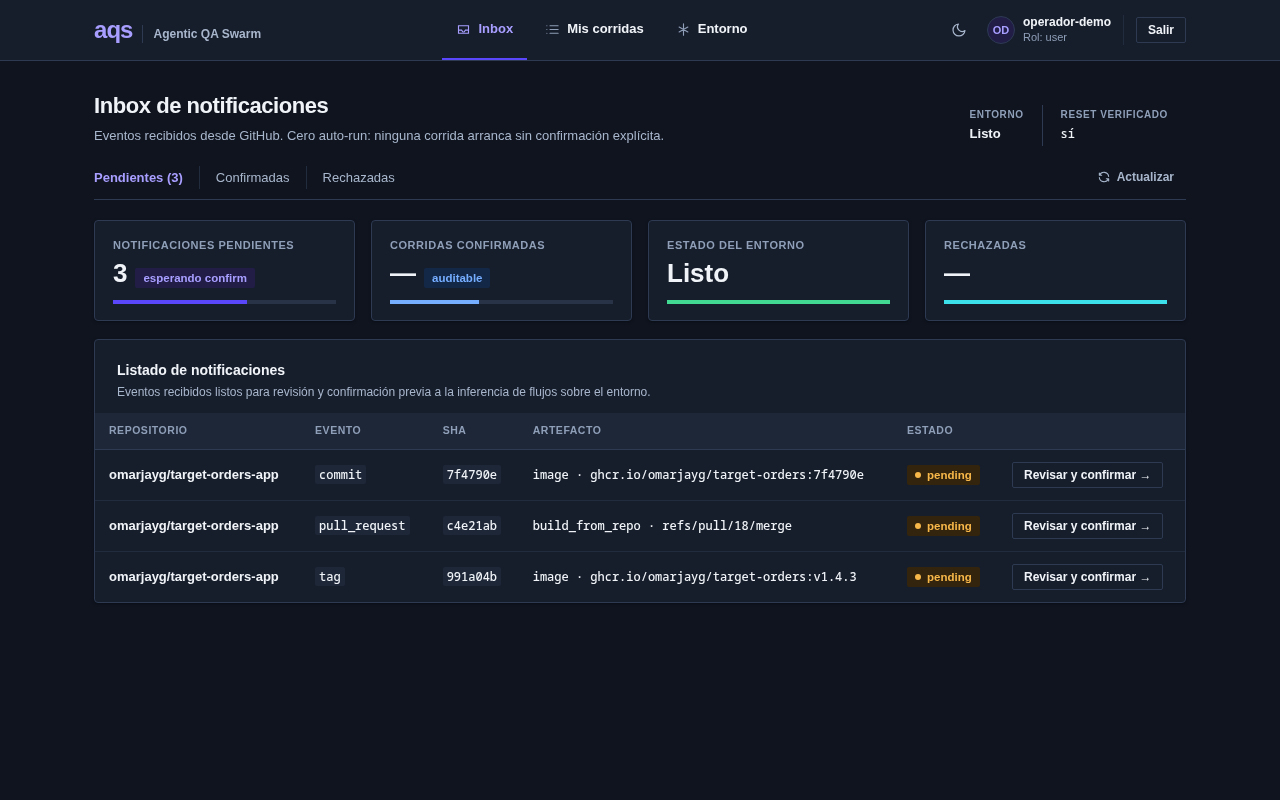
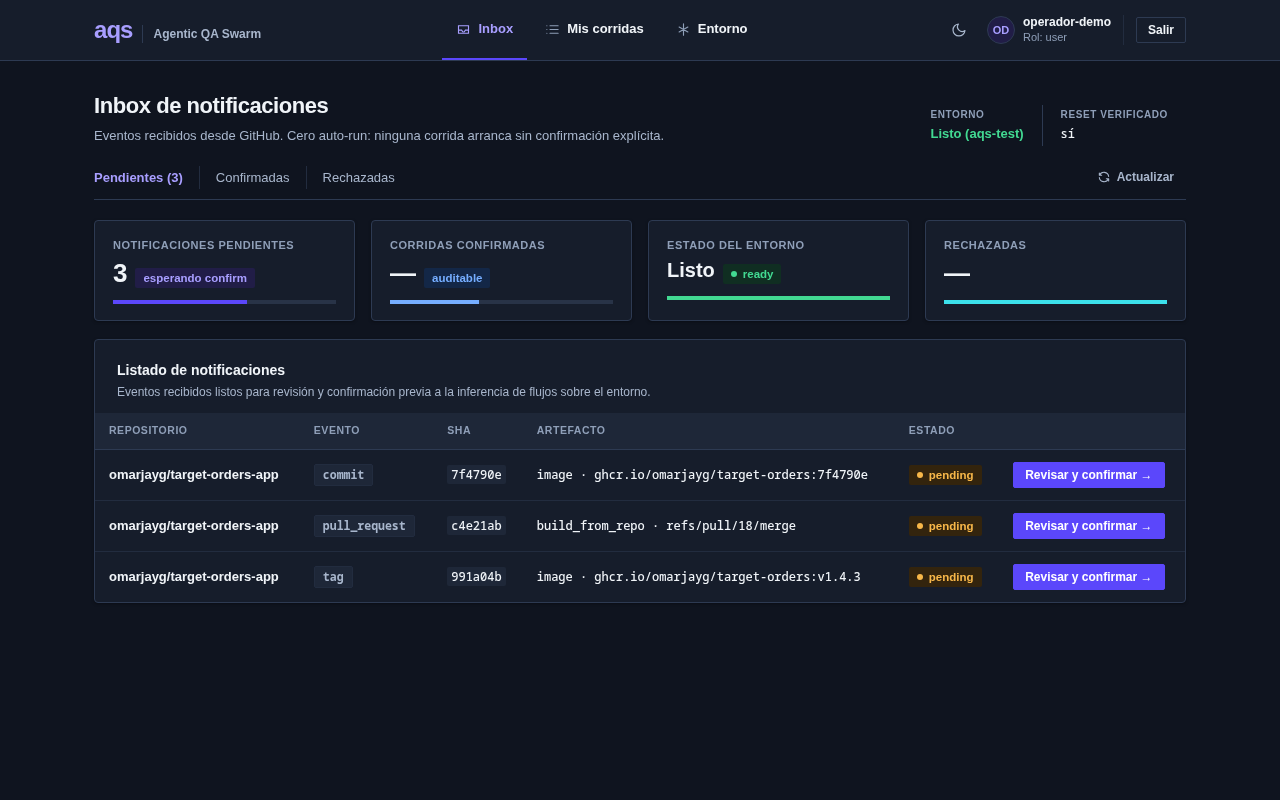
fix(fidelidad): Mis corridas en UTC y tabla fiel a 375 px; bandeja con estado, botón primario y evento como badge
- Mis corridas: fechas con timeZone UTC (es-ES, 24 h); cabecera «Confirmada (hora en UTC)».
- styles: sin relleno reducido a 375 px en celdas; run_id sin partir por letra; código de tablas sin break-all.
- Bandeja: KPI de estado con valor a 20 px y badge con el estado real; cabecera con warm_id; botón primario.
- Kpi: prop opcional claseValor.

diff --git a/bitacoras/U10-T06/informe.html b/bitacoras/U10-T06/informe.html
@@ -1,25 +1,25 @@
 <!doctype html><meta charset="utf-8"><title>e2e:fidelidad</title><body style="font:14px sans-serif"><section><h2>inbox · light · 1280 px · FALLA</h2>
-<p>píxeles distintos: 7.20 % (umbral 5 %)</p>
+<p>píxeles distintos: 6.70 % (umbral 5 %)</p>
 <ul><li>sin diferencias de estilo ni de estructura</li></ul>
 <div style="display:flex;gap:12px;align-items:flex-start"><figure><figcaption>app</figcaption><img src="capturas/app-inbox-light-1280.png" style="max-width:600px"></figure><figure><figcaption>mockup</figcaption><img src="capturas/mock-inbox-light-1280.png" style="max-width:600px"></figure></div></section>
 <section><h2>inbox · light · 375 px · FALLA</h2>
-<p>píxeles distintos: 15.28 % (umbral 5 %)</p>
-<ul><li>estilo tarjeta[2] · height: app=101.094px mock=97.5469px</li><li>estilo tarjeta[4] · height: app=471.75px mock=359.75px</li></ul>
+<p>píxeles distintos: 15.91 % (umbral 5 %)</p>
+<ul><li>sin diferencias de estilo ni de estructura</li></ul>
 <div style="display:flex;gap:12px;align-items:flex-start"><figure><figcaption>app</figcaption><img src="capturas/app-inbox-light-375.png" style="max-width:600px"></figure><figure><figcaption>mockup</figcaption><img src="capturas/mock-inbox-light-375.png" style="max-width:600px"></figure></div></section>
 <section><h2>inbox · dark · 1280 px · FALLA</h2>
-<p>píxeles distintos: 7.25 % (umbral 5 %)</p>
+<p>píxeles distintos: 6.72 % (umbral 5 %)</p>
 <ul><li>sin diferencias de estilo ni de estructura</li></ul>
 <div style="display:flex;gap:12px;align-items:flex-start"><figure><figcaption>app</figcaption><img src="capturas/app-inbox-dark-1280.png" style="max-width:600px"></figure><figure><figcaption>mockup</figcaption><img src="capturas/mock-inbox-dark-1280.png" style="max-width:600px"></figure></div></section>
 <section><h2>inbox · dark · 375 px · FALLA</h2>
-<p>píxeles distintos: 16.13 % (umbral 5 %)</p>
-<ul><li>estilo tarjeta[2] · height: app=101.094px mock=97.5469px</li><li>estilo tarjeta[4] · height: app=471.75px mock=359.75px</li></ul>
+<p>píxeles distintos: 16.82 % (umbral 5 %)</p>
+<ul><li>sin diferencias de estilo ni de estructura</li></ul>
 <div style="display:flex;gap:12px;align-items:flex-start"><figure><figcaption>app</figcaption><img src="capturas/app-inbox-dark-375.png" style="max-width:600px"></figure><figure><figcaption>mockup</figcaption><img src="capturas/mock-inbox-dark-375.png" style="max-width:600px"></figure></div></section>
 <section><h2>run · light · 1280 px · FALLA</h2>
 <p>píxeles distintos: 6.25 % (umbral 5 %)</p>
 <ul><li>sin diferencias de estilo ni de estructura</li></ul>
 <div style="display:flex;gap:12px;align-items:flex-start"><figure><figcaption>app</figcaption><img src="capturas/app-run-light-1280.png" style="max-width:600px"></figure><figure><figcaption>mockup</figcaption><img src="capturas/mock-run-light-1280.png" style="max-width:600px"></figure></div></section>
 <section><h2>run · light · 375 px · FALLA</h2>
-<p>píxeles distintos: 16.10 % (umbral 5 %)</p>
+<p>píxeles distintos: 16.06 % (umbral 5 %)</p>
 <ul><li>estilo tarjeta[0] · height: app=755.594px mock=774.188px</li><li>estilo tarjeta[1] · height: app=470.094px mock=472.094px</li></ul>
 <div style="display:flex;gap:12px;align-items:flex-start"><figure><figcaption>app</figcaption><img src="capturas/app-run-light-375.png" style="max-width:600px"></figure><figure><figcaption>mockup</figcaption><img src="capturas/mock-run-light-375.png" style="max-width:600px"></figure></div></section>
 <section><h2>run · dark · 1280 px · FALLA</h2>
@@ -27,27 +27,27 @@
 <ul><li>sin diferencias de estilo ni de estructura</li></ul>
 <div style="display:flex;gap:12px;align-items:flex-start"><figure><figcaption>app</figcaption><img src="capturas/app-run-dark-1280.png" style="max-width:600px"></figure><figure><figcaption>mockup</figcaption><img src="capturas/mock-run-dark-1280.png" style="max-width:600px"></figure></div></section>
 <section><h2>run · dark · 375 px · FALLA</h2>
-<p>píxeles distintos: 17.16 % (umbral 5 %)</p>
+<p>píxeles distintos: 17.11 % (umbral 5 %)</p>
 <ul><li>estilo tarjeta[0] · height: app=755.594px mock=774.188px</li><li>estilo tarjeta[1] · height: app=470.094px mock=472.094px</li></ul>
 <div style="display:flex;gap:12px;align-items:flex-start"><figure><figcaption>app</figcaption><img src="capturas/app-run-dark-375.png" style="max-width:600px"></figure><figure><figcaption>mockup</figcaption><img src="capturas/mock-run-dark-375.png" style="max-width:600px"></figure></div></section>
 <section><h2>runs · light · 1280 px · OK</h2>
 <p>píxeles distintos: 1.37 % (umbral 5 %)</p>
 <ul><li>sin diferencias de estilo ni de estructura</li></ul>
 <div style="display:flex;gap:12px;align-items:flex-start"><figure><figcaption>app</figcaption><img src="capturas/app-runs-light-1280.png" style="max-width:600px"></figure><figure><figcaption>mockup</figcaption><img src="capturas/mock-runs-light-1280.png" style="max-width:600px"></figure></div></section>
-<section><h2>runs · light · 375 px · FALLA</h2>
-<p>píxeles distintos: 5.84 % (umbral 5 %)</p>
-<ul><li>estilo tarjeta[0] · height: app=243.25px mock=197.25px</li></ul>
+<section><h2>runs · light · 375 px · OK</h2>
+<p>píxeles distintos: 3.23 % (umbral 5 %)</p>
+<ul><li>sin diferencias de estilo ni de estructura</li></ul>
 <div style="display:flex;gap:12px;align-items:flex-start"><figure><figcaption>app</figcaption><img src="capturas/app-runs-light-375.png" style="max-width:600px"></figure><figure><figcaption>mockup</figcaption><img src="capturas/mock-runs-light-375.png" style="max-width:600px"></figure></div></section>
 <section><h2>runs · dark · 1280 px · OK</h2>
 <p>píxeles distintos: 1.66 % (umbral 5 %)</p>
 <ul><li>sin diferencias de estilo ni de estructura</li></ul>
 <div style="display:flex;gap:12px;align-items:flex-start"><figure><figcaption>app</figcaption><img src="capturas/app-runs-dark-1280.png" style="max-width:600px"></figure><figure><figcaption>mockup</figcaption><img src="capturas/mock-runs-dark-1280.png" style="max-width:600px"></figure></div></section>
-<section><h2>runs · dark · 375 px · FALLA</h2>
-<p>píxeles distintos: 7.17 % (umbral 5 %)</p>
-<ul><li>estilo tarjeta[0] · height: app=243.25px mock=197.25px</li></ul>
+<section><h2>runs · dark · 375 px · OK</h2>
+<p>píxeles distintos: 4.20 % (umbral 5 %)</p>
+<ul><li>sin diferencias de estilo ni de estructura</li></ul>
 <div style="display:flex;gap:12px;align-items:flex-start"><figure><figcaption>app</figcaption><img src="capturas/app-runs-dark-375.png" style="max-width:600px"></figure><figure><figcaption>mockup</figcaption><img src="capturas/mock-runs-dark-375.png" style="max-width:600px"></figure></div></section>
 <section><h2>warm · light · 1280 px · OK</h2>
-<p>píxeles distintos: 2.05 % (umbral 5 %)</p>
+<p>píxeles distintos: 1.98 % (umbral 5 %)</p>
 <ul><li>sin diferencias de estilo ni de estructura</li></ul>
 <div style="display:flex;gap:12px;align-items:flex-start"><figure><figcaption>app</figcaption><img src="capturas/app-warm-light-1280.png" style="max-width:600px"></figure><figure><figcaption>mockup</figcaption><img src="capturas/mock-warm-light-1280.png" style="max-width:600px"></figure></div></section>
 <section><h2>warm · light · 375 px · FALLA</h2>
@@ -55,7 +55,7 @@
 <ul><li>estilo tarjeta[0] · height: app=506.688px mock=525.688px</li></ul>
 <div style="display:flex;gap:12px;align-items:flex-start"><figure><figcaption>app</figcaption><img src="capturas/app-warm-light-375.png" style="max-width:600px"></figure><figure><figcaption>mockup</figcaption><img src="capturas/mock-warm-light-375.png" style="max-width:600px"></figure></div></section>
 <section><h2>warm · dark · 1280 px · OK</h2>
-<p>píxeles distintos: 2.04 % (umbral 5 %)</p>
+<p>píxeles distintos: 1.97 % (umbral 5 %)</p>
 <ul><li>sin diferencias de estilo ni de estructura</li></ul>
 <div style="display:flex;gap:12px;align-items:flex-start"><figure><figcaption>app</figcaption><img src="capturas/app-warm-dark-1280.png" style="max-width:600px"></figure><figure><figcaption>mockup</figcaption><img src="capturas/mock-warm-dark-1280.png" style="max-width:600px"></figure></div></section>
 <section><h2>warm · dark · 375 px · FALLA</h2>

diff --git a/web/dashboard/src/pages/Inbox/InboxPage.tsx b/web/dashboard/src/pages/Inbox/InboxPage.tsx
@@ -241,7 +241,11 @@ export function InboxPage() {
   // Cabecera: solo celdas con dato real de la API. «Familias activas» no existe en la API: se omite.
   const meta: ElementoMeta[] = [];
   if (warm !== null) {
-    meta.push({ etiqueta: 'Entorno', valor: ETIQUETA_ENTORNO[warm.state] });
+    // U10-T06: el mockup muestra el identificador del entorno (warm_id, dato real) en verde, como su estado.
+    meta.push({
+      etiqueta: 'Entorno',
+      valor: <span className="meta-ok">{`${ETIQUETA_ENTORNO[warm.state]} (${warm.warm_id})`}</span>,
+    });
     meta.push({
       etiqueta: 'Reset verificado',
       valor: <span className="mono">{warm.reset_verified ? 'sí' : 'no'}</span>,
@@ -323,6 +327,8 @@ export function InboxPage() {
         <Kpi
           etiqueta="Estado del entorno"
           valor={warm !== null ? ETIQUETA_ENTORNO[warm.state] : 'Sin dato'}
+          claseValor="kpi-valor-20"
+          insignia={warm !== null ? { clase: 'badge-ok', texto: warm.state, punto: true } : undefined}
           barra={100}
           colorBarra="var(--ok)"
         />
@@ -364,7 +370,7 @@ export function InboxPage() {
                         <strong>{n.repo}</strong>
                       </td>
                       <td data-label="Evento">
-                        <code>{n.github_event}</code>
+                        <span className="badge badge-neutral mono">{n.github_event}</span>
                       </td>
                       <td data-label="SHA">
                         <code>{n.sha.slice(0, 7)}</code>
@@ -382,7 +388,7 @@ export function InboxPage() {
                       <td data-label="Acciones">
                         <button
                           type="button"
-                          className="btn btn-secondary btn-sm"
+                          className="btn btn-primary btn-sm"
                           disabled={enVuelo}
                           onClick={() => {
                             setSeleccionadaId(n.id);

diff --git a/web/dashboard/src/pages/Runs/RunsPage.test.tsx b/web/dashboard/src/pages/Runs/RunsPage.test.tsx
@@ -58,7 +58,7 @@ describe('RunsPage (Mis corridas)', () => {
     await waitFor(() => expect(urls).toEqual(['?limit=20']));
   });
 
-  it('cada run_id enlaza a /runs/<run_id> y muestra notification_id, hora local y confirmed_by', async () => {
+  it('cada run_id enlaza a /runs/<run_id> y muestra notification_id, hora UTC y confirmed_by', async () => {
     server.use(http.get('/api/confirmations', () => HttpResponse.json(RECIBOS)));
     renderMisCorridas();
     const [primero] = RECIBOS;
@@ -67,8 +67,9 @@ describe('RunsPage (Mis corridas)', () => {
     expect(enlace.getAttribute('href')).toBe(`/runs/${primero.run_id}`);
     expect(screen.getByText('not-1')).toBeTruthy();
     expect(screen.getAllByText('ana').length).toBe(2);
-    const hora = new Date(primero.confirmed_at).toLocaleString('es-ES', { hour12: false });
-    expect(screen.getByText(hora)).toBeTruthy();
+    // U10-T06: fechas en UTC con locale es-ES y 24 h. Literal fijo: no depende de la zona del proceso.
+    expect(primero.confirmed_at).toBe('2026-10-09T12:00:00Z');
+    expect(screen.getByText('9/10/2026, 12:00:00')).toBeTruthy();
   });
 
   it('lista vacía muestra el mensaje de vacío', async () => {
@@ -94,7 +95,7 @@ describe('RunsPage (estructura del mockup, U10-T04)', () => {
     const cabeceras = screen.getAllByRole('columnheader').map((th) => th.textContent ?? '');
     expect(cabeceras.some((t) => /^Corrida/.test(t))).toBe(true);
     expect(cabeceras.some((t) => /^Notificación/.test(t))).toBe(true);
-    expect(cabeceras.some((t) => /^Confirmada \(hora local\)/.test(t))).toBe(true);
+    expect(cabeceras.some((t) => /^Confirmada \(hora en UTC\)/.test(t))).toBe(true);
     expect(cabeceras.some((t) => t === 'Confirmada por')).toBe(true);
   });
 

diff --git a/web/dashboard/src/components/Kpi.tsx b/web/dashboard/src/components/Kpi.tsx
@@ -4,21 +4,23 @@ interface PropsKpi {
   etiqueta: string;
   valor: ReactNode;
   /** Insignia junto al valor (.badge del mockup). Su clase es la variante semántica y el texto va escrito. */
-  insignia?: { clase: string; texto: string; punto?: boolean };
+  insignia?: { clase: string; texto: string; punto?: boolean } | undefined;
   /** Porcentaje 0–100 para la barra de progreso inferior (.kpi-bar). Sin valor, no hay barra. */
   barra?: number;
   /** Color de la barra: variable CSS del mockup (p. ej. «var(--info)»). Por defecto, el acento. */
   colorBarra?: string;
+  /** Clase extra del valor (p. ej. «kpi-valor-20»: valor de texto a 20 px, como el mockup). */
+  claseValor?: string;
 }
 
 /** Bloque KPI del mockup: etiqueta, valor grande, insignia y barra opcionales. */
-export function Kpi({ etiqueta, valor, insignia, barra, colorBarra }: PropsKpi) {
+export function Kpi({ etiqueta, valor, insignia, barra, colorBarra, claseValor }: PropsKpi) {
   const porcentaje = barra === undefined ? null : Math.min(100, Math.max(0, barra));
   return (
     <div className="card kpi-box">
       <div className="kpi-label">{etiqueta}</div>
       <div className="kpi-row">
-        <span className="kpi-val">{valor}</span>
+        <span className={claseValor === undefined ? 'kpi-val' : `kpi-val ${claseValor}`}>{valor}</span>
         {insignia !== undefined && (
           <span className={`badge ${insignia.clase}`}>
             {insignia.punto === true && <span className="badge-dot" />}

diff --git a/web/dashboard/src/styles.css b/web/dashboard/src/styles.css
@@ -62,7 +62,8 @@ code {
   background: var(--surface-2);
   border-radius: var(--radius-sm);
   padding: 1px 4px;
-  word-break: break-all;
+  /* U10-T06: el mockup no parte el código por letra; solo rompe si una palabra no cabe en la línea. */
+  overflow-wrap: break-word;
 }
 
 small {
@@ -535,6 +536,11 @@ main.page-narrow {
   margin-bottom: 0;
 }
 
+/* Valor de la cabecera de la vista en verde (estado operativo, mockup «Listo (aqs-test)»). */
+.meta-ok {
+  color: var(--ok);
+}
+
 .kpi-val.kpi-valor-20 {
   font-size: 20px;
 }
@@ -916,6 +922,7 @@ main.page-narrow {
   color: var(--accent-text);
   font-weight: 700;
   text-decoration: underline;
+  overflow-wrap: normal;
 }
 
 /* Nombres de campo de la API (run_id, state…) marcados en las vistas de T04: conservan su grafía. */
@@ -972,7 +979,11 @@ th .campo-api {
   padding: 12px 14px;
   border-bottom: 1px solid var(--border-subtle);
   vertical-align: middle;
-  overflow-wrap: anywhere;
+}
+
+/* U10-T06: en las tablas el código no se parte por letra (mockup): el ancho mínimo de la columna es el del valor. */
+.data-table code {
+  word-break: normal;
 }
 
 .data-table tbody tr:last-child td {
@@ -1382,11 +1393,6 @@ pre.json-body {
 @media (max-width: 620px) {
   main.page {
     padding: 16px;
-  }
-
-  .data-table th,
-  .data-table td {
-    padding: 6px 8px;
   }
 
   /* DESIGN §4.4: las tablas se desplazan dentro de su .table-wrap, sin desbordar la página a 375 px. */

diff --git a/web/dashboard/src/pages/Runs/RunsPage.tsx b/web/dashboard/src/pages/Runs/RunsPage.tsx
@@ -57,7 +57,7 @@ export function RunsPage() {
                     <th scope="col">
                       Notificación (<code className="campo-api">notification_id</code>)
                     </th>
-                    <th scope="col">Confirmada (hora local)</th>
+                    <th scope="col">Confirmada (hora en UTC)</th>
                     <th scope="col">Confirmada por</th>
                     <th scope="col">
                       <span className="sr-only">Acción</span>
@@ -75,7 +75,7 @@ export function RunsPage() {
                       <td data-label="Notificación" className="mono">
                         {r.notification_id}
                       </td>
-                      <td data-label="Confirmada">{new Date(r.confirmed_at).toLocaleString('es-ES', { hour12: false })}</td>
+                      <td data-label="Confirmada">{new Date(r.confirmed_at).toLocaleString('es-ES', { hour12: false, timeZone: 'UTC' })}</td>
                       <td data-label="Confirmada por">
                         <code>{r.confirmed_by}</code>
                       </td>
